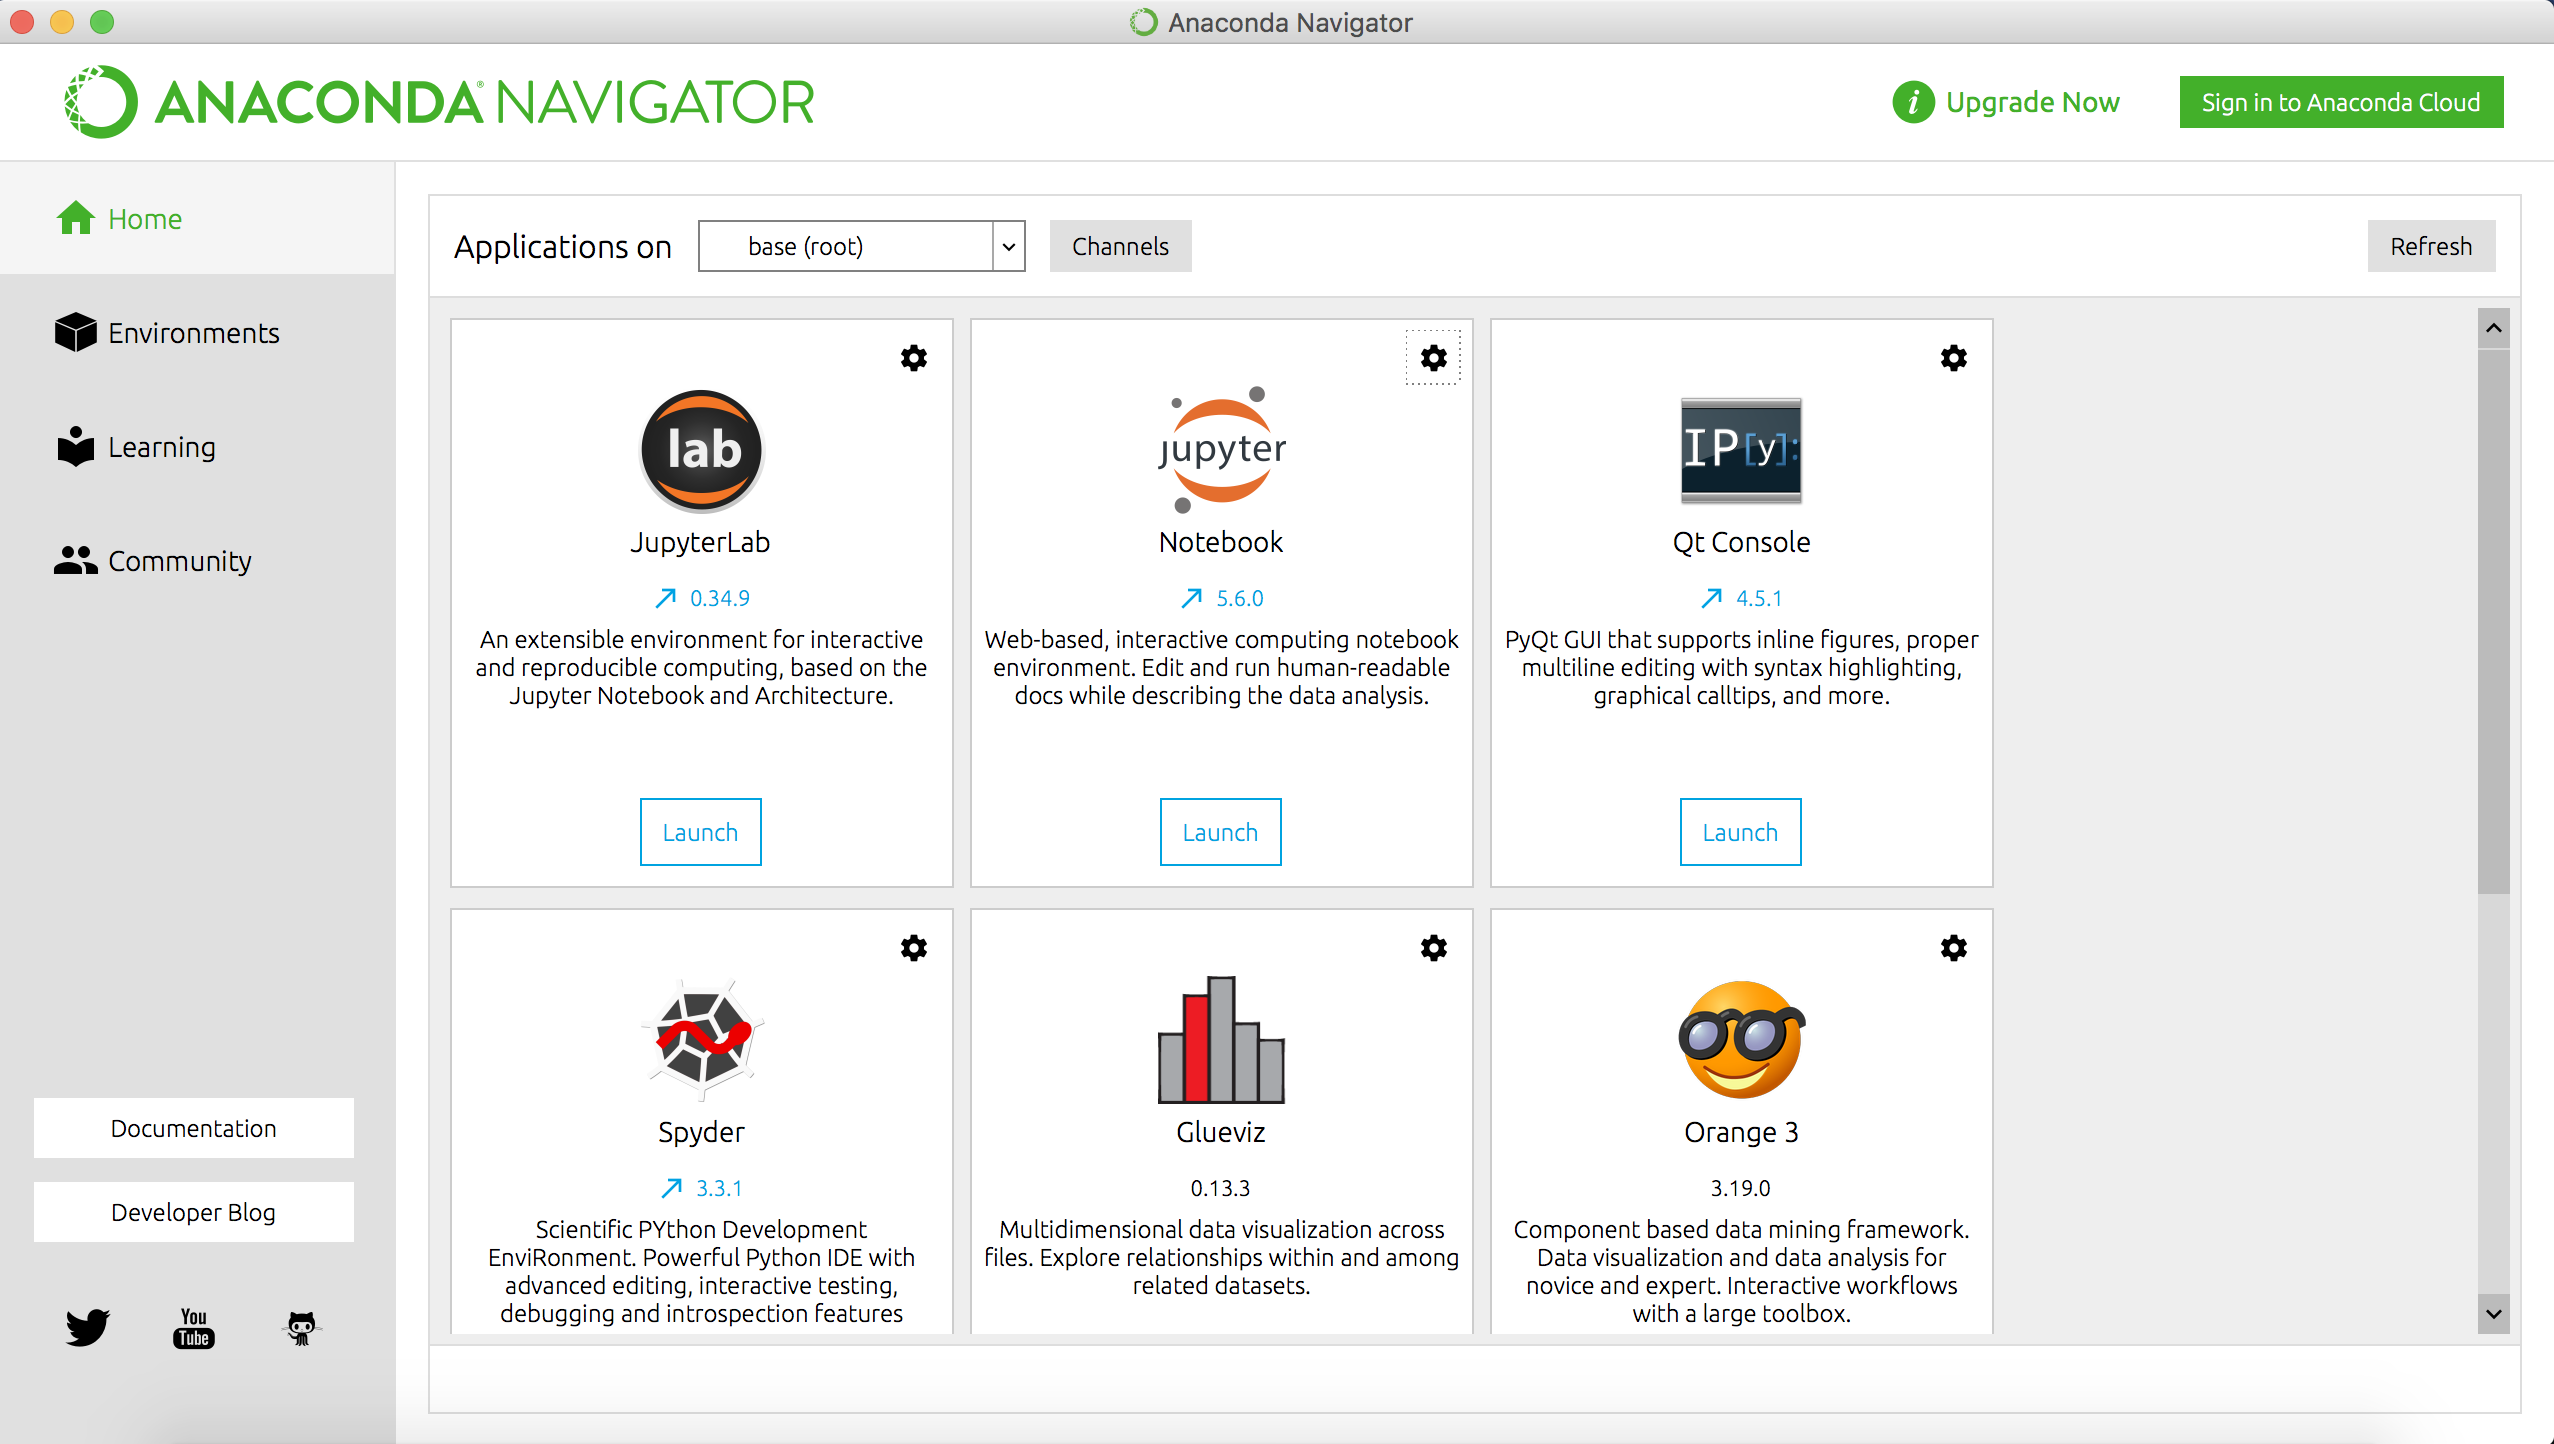
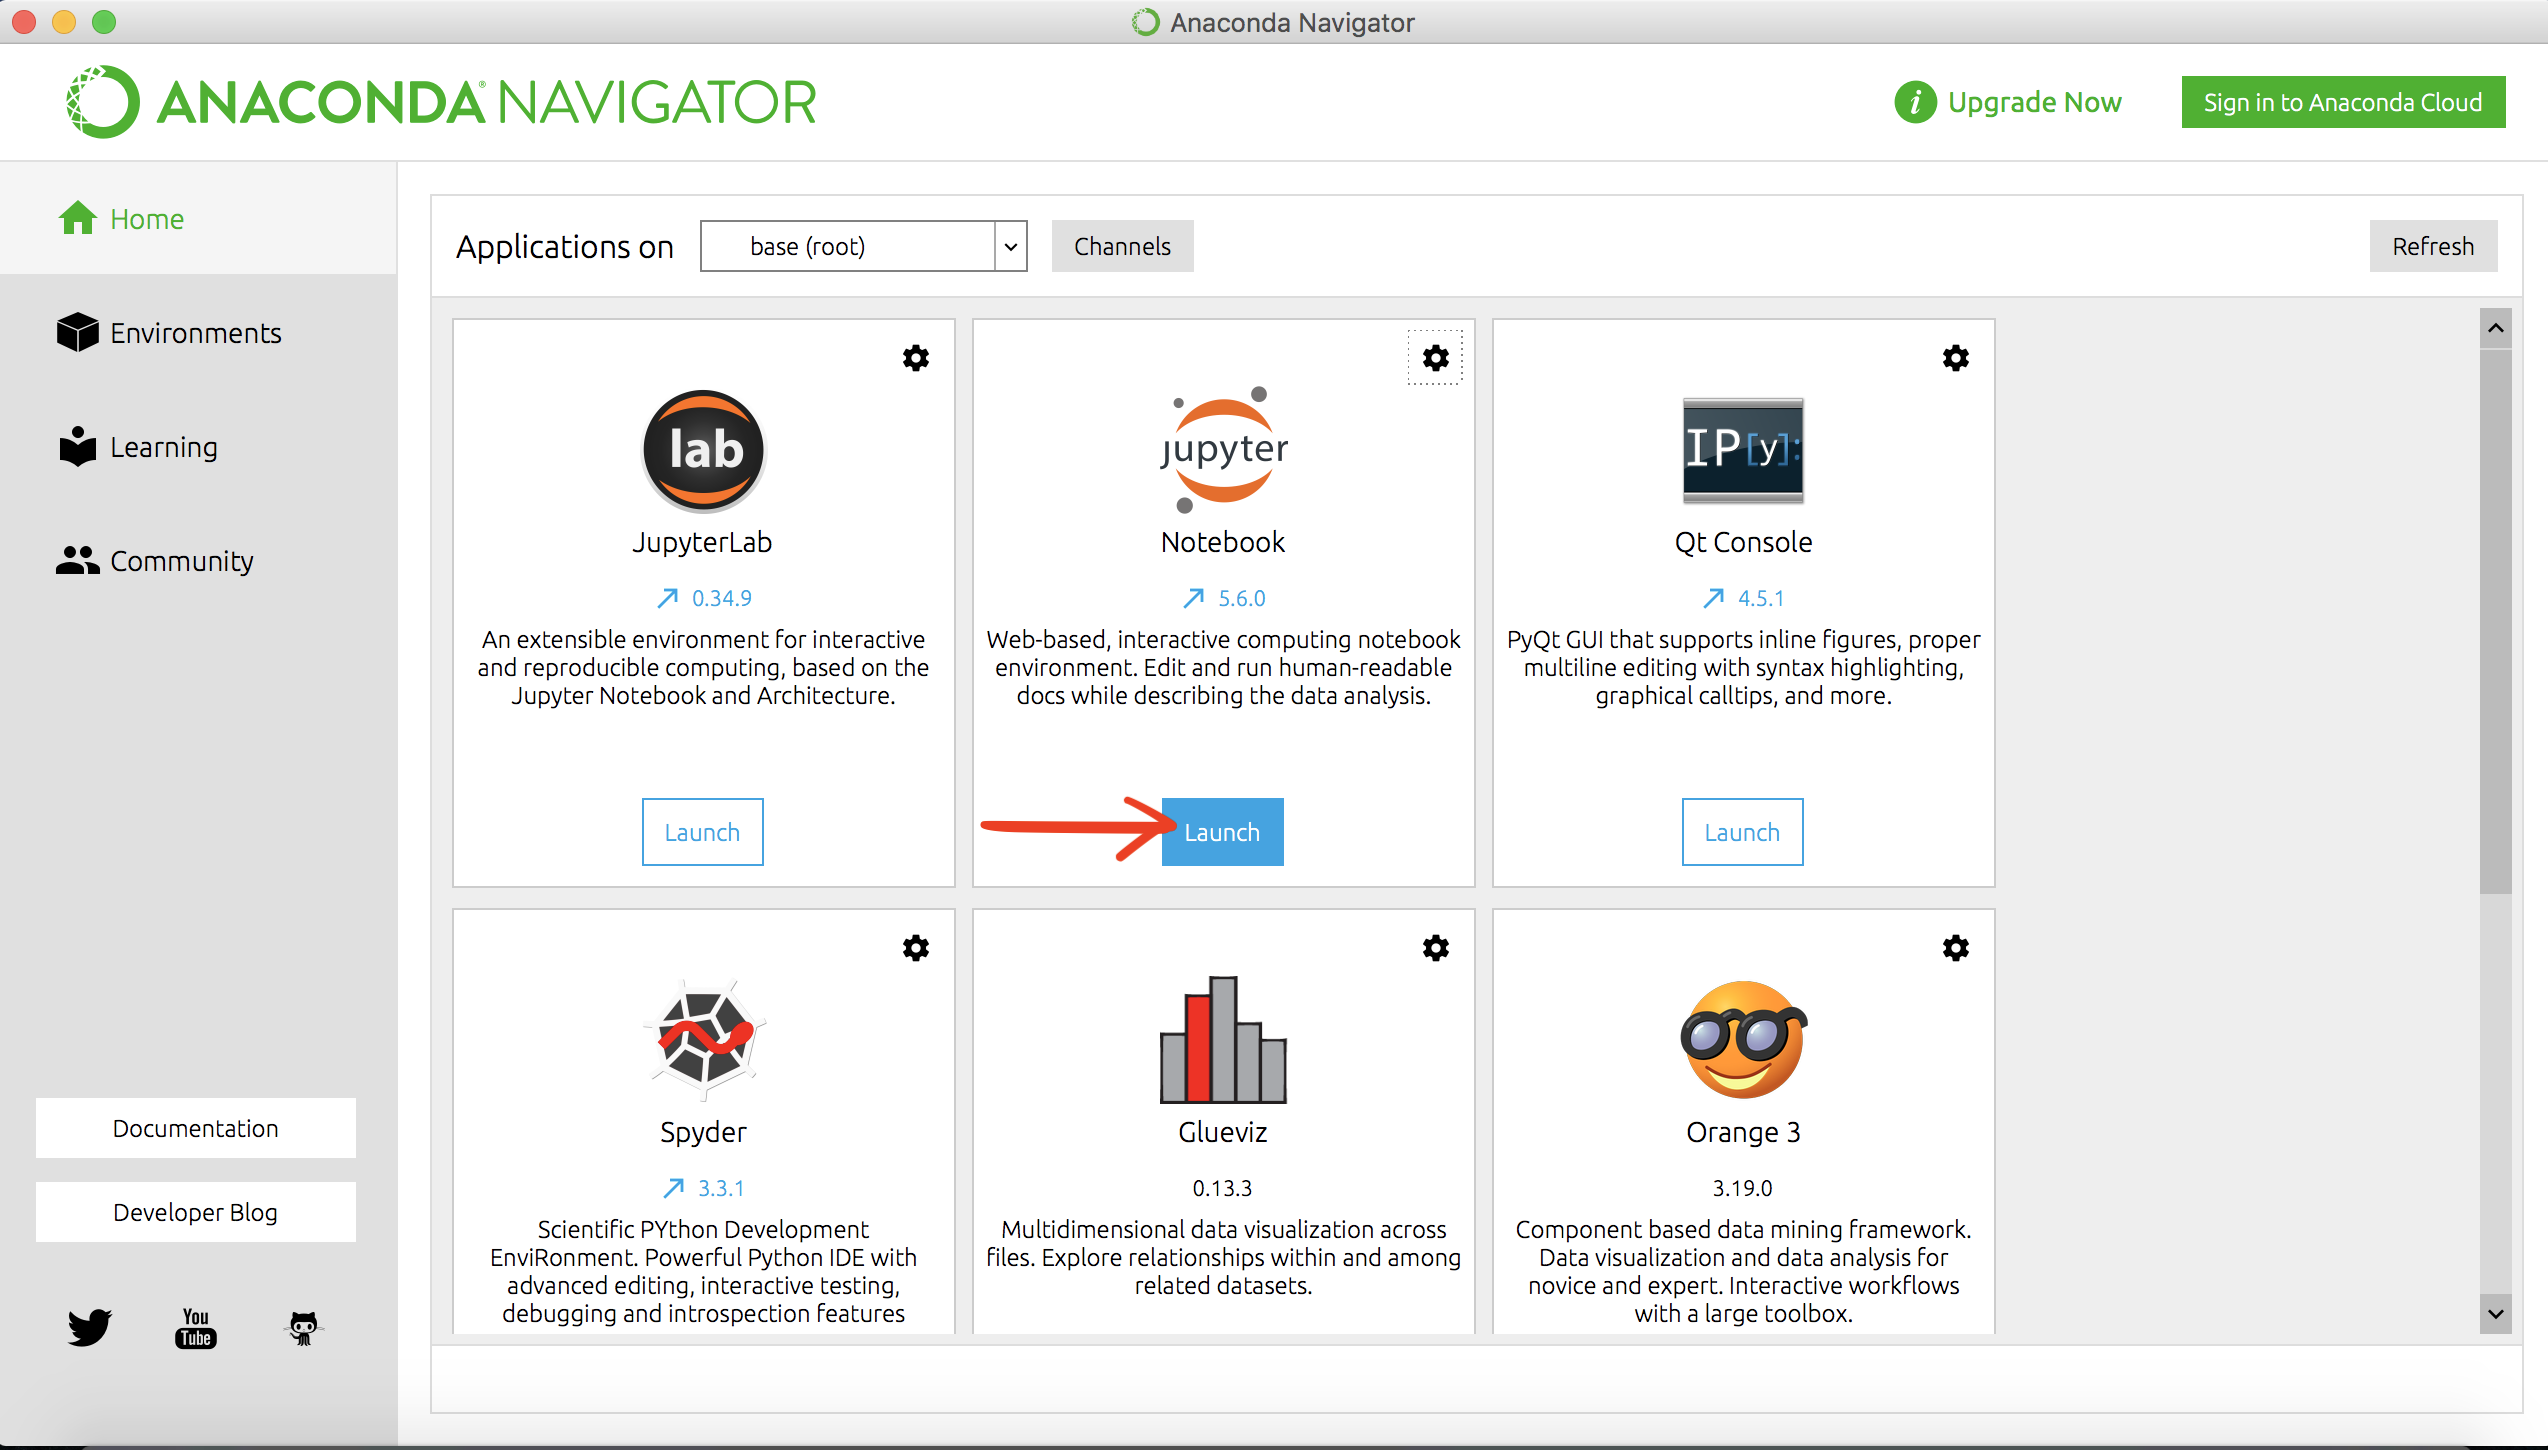
first commit

diff --git a/setup.md b/setup.md
@@ -4,15 +4,17 @@
 **Installing on macOS** : https://docs.anaconda.com/anaconda/install/mac-os/ <br>
 **Installing on Linux** : https://docs.anaconda.com/anaconda/install/linux/ <br>
 
-<p>Note: Choose Python 3.7 Graphical version from the versions available. It is not required to install PyCharm along with Anaconda IDE.<br>After your installation is complete, verify it by opening Anaconda Navigator from your terminal/desktop.</p>
+<p>Note: Choose Python 3.7 Graphical version from the versions available. It is not required to install PyCharm along with Anaconda IDE.<br>After your installation is complete, verify it by opening Anaconda Navigator from your terminal/desktop. You should be able to see something like this.</p>
 
 ![img](img1.png)
 
-<p>Now, click on the option to launch Jupyter notebook. This will take you to a directory where you can work with and manage your python scripts.</p>
+<p>Now, click on the option to 'Launch' Jupyter notebook. This will take you to a directory where you can work with your python scripts.</p>
 
 ![img](img2.png)
 
-<p>Create a new Python 3 notebook and type in the following commands for downloading packages. Tensorflow and keras will be required for model building. Matplotlib and tensorboard for visualisations.</p>
+## Installing required Packages
+
+<p>Create a new Python 3 notebook and type in the following commands as follows. Tensorflow and keras will be required for model building. Matplotlib and tensorboard for visualisations.</p>
 
 ```sh
 !pip install numpy
@@ -23,3 +25,18 @@
 !pip install tensorboard
 ```
 ![img](img3.png)
+
+## Downloading the dataset
+
+<p> We will be working with classic Dog vs Cat classification and we will be using the Kaggle dataset for the same. The following link will direct you to the kaggle page.<br></p>
+
+https://www.kaggle.com/c/dogs-vs-cats/data<br><br>
+
+<p>Before downloading the data, you will have to sign in with your Google account. Then click on 'Download All' at the bottom of the page.</p>
+
+![img](img4.png)
+
+<p>Once your installations are ready and the data is downloaded, you are good to go!</p>
+
+
+
